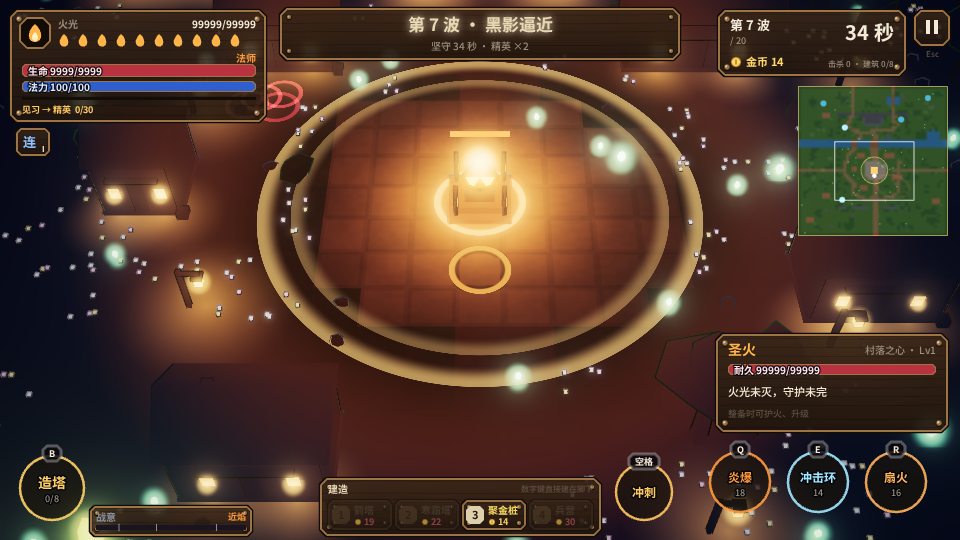
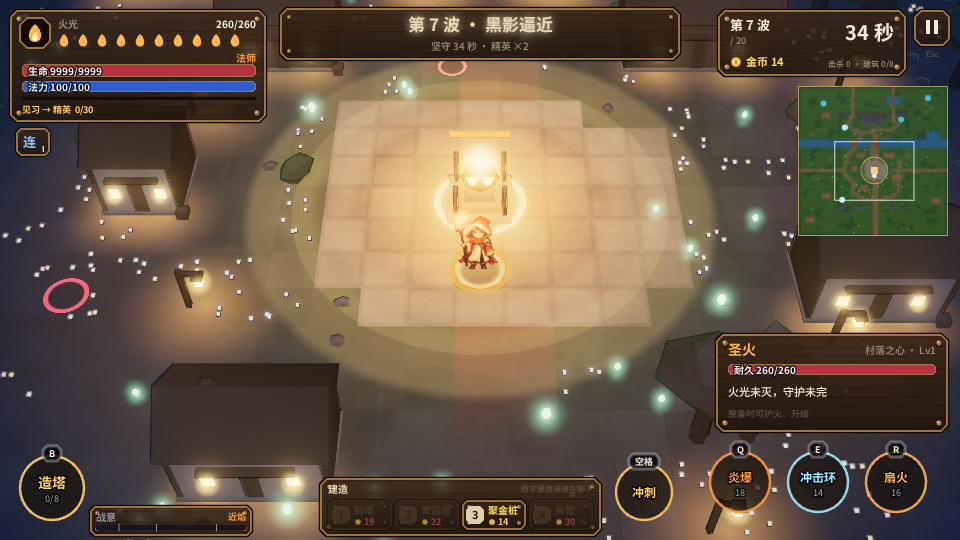
scene: lift the outside to a readable blue-grey and brighten the flame
The cool wash was too dark and magenta, so the village dropped out. Raise
outside gain and ambient, shift the cool tint from purple toward blue, and
stop the grade pass from forcing shadow green under red. The flame is a
brighter gold (about 1.3x gain, less red). The sanctuary ring is a faint
soft band, and green-dominant particles are damped below the bloom threshold.

diff --git a/js/world3d.js b/js/world3d.js
@@ -526,15 +526,15 @@
     // rim = 冷色边缘光 [r, g, b, 强度]；fogLow = 光圈外低矮冷雾 [浓度, 高度, 从光圈边缘到最浓的距离]；vig = 暗角；
     // amb = 环境与主光亮度倍率；chill = C1 冷暖混合（0 白天端，1 夜晚端，见 RW.C1_LIGHT）；a35 = 夜晚提亮到白天 35% 的备选颜色
     var P = {
-      day: { light: [-0.45, 0.82, 0.36], sun: shade(hex('#a8c0e8'), 0.38), sky: shade(hex('#9ec0ff'), 0.4), ground: shade(hex('#161432'), 0.6), fog: hex('#3a4e84'), clear: hex('#4a6298'), fogNear: 1700, fogFar: 2700, em: 1.0, lamp: 0.15,
-        grade: [1.02, 1.04, 0.06, 0.0], shadowDark: 0.28, line: hex('#1a1830'), bloom: 0.35, thr: 0.9,
-        rim: [0.37, 0.66, 0.78, 0.12], fogLow: [0, 40, 360], vig: 0.18, amb: 0.46, chill: 0 },
-      dusk: { light: [-0.7, 0.55, 0.3], sun: shade(hex('#8aa0d0'), 0.32), sky: shade(hex('#6070b0'), 0.38), ground: shade(hex('#141228'), 0.55), fog: hex('#2a3868'), clear: hex('#323e6c'), fogNear: 1500, fogFar: 2400, em: 1.2, lamp: 0.6,
-        grade: [0.98, 1.05, 0.1, -0.01], shadowDark: 0.26, line: hex('#161428'), bloom: 0.6, thr: 0.78,
-        rim: [0.45, 0.6, 0.85, 0.2], fogLow: [0.25, 36, 420], vig: 0.22, amb: 0.34, chill: 0.45 },
-      night: { light: [-0.35, 0.8, 0.45], sun: shade(hex('#6880c0'), 0.26), sky: shade(hex('#3a58a0'), 0.32), ground: shade(hex('#100e22'), 0.5), fog: hex('#1c2a56'), clear: hex('#10162c'), fogNear: 1300, fogFar: 2100, em: 1.5, lamp: 1.0,
-        grade: [0.92, 1.06, 0.12, -0.01], shadowDark: 0.22, line: hex('#0c0e18'), bloom: 0.95, thr: 0.62,
-        rim: [0.37, 0.66, 0.78, 0.32], fogLow: [0.55, 34, 380], vig: 0.28, amb: 0.24, chill: 1,
+      day: { light: [-0.45, 0.82, 0.36], sun: shade(hex('#b7ccec'), 0.50), sky: shade(hex('#a8c4ee'), 0.58), ground: shade(hex('#2c3c5c'), 0.85), fog: hex('#4e709e'), clear: hex('#5e82b0'), fogNear: 1900, fogFar: 3200, em: 1.0, lamp: 0.5,
+        grade: [1.04, 1.02, 0.04, 0.02], shadowDark: 0.52, line: hex('#1a1830'), bloom: 0.35, thr: 0.9,
+        rim: [0.37, 0.66, 0.78, 0.12], fogLow: [0, 40, 360], vig: 0.12, amb: 0.62, chill: 0 },
+      dusk: { light: [-0.7, 0.55, 0.3], sun: shade(hex('#9eb6dc'), 0.48), sky: shade(hex('#7c9cc8'), 0.55), ground: shade(hex('#28344c'), 0.82), fog: hex('#3e5a86'), clear: hex('#3e5c88'), fogNear: 1750, fogFar: 2900, em: 1.2, lamp: 0.75,
+        grade: [1.0, 1.02, 0.05, 0.01], shadowDark: 0.5, line: hex('#161428'), bloom: 0.45, thr: 0.85,
+        rim: [0.45, 0.6, 0.85, 0.2], fogLow: [0.25, 36, 420], vig: 0.14, amb: 0.58, chill: 0.45 },
+      night: { light: [-0.35, 0.8, 0.45], sun: shade(hex('#8aa4d0'), 0.50), sky: shade(hex('#7090c4'), 0.62), ground: shade(hex('#24344e'), 0.90), fog: hex('#3a5680'), clear: hex('#243656'), fogNear: 1700, fogFar: 2800, em: 1.5, lamp: 1.0,
+        grade: [0.98, 1.02, 0.06, 0.01], shadowDark: 0.48, line: hex('#0c0e18'), bloom: 0.55, thr: 0.85,
+        rim: [0.37, 0.66, 0.78, 0.32], fogLow: [0.55, 34, 380], vig: 0.16, amb: 0.62, chill: 1,
         // 备选（GL.ART.night35）：夜晚光圈外亮度约为白天 35% 的提亮版
         a35: { sun: shade(hex('#8aa4ff'), 0.72), sky: shade(hex('#5a74b8'), 0.8), ground: shade(hex('#2a2c48'), 0.6), fog: hex('#34497a'), clear: hex('#141e36') } },
       boss: { light: [-0.5, 0.7, 0.4], sun: shade(hex('#8090c8'), 0.3), sky: shade(hex('#503868'), 0.4), ground: shade(hex('#1a1020'), 0.5), fog: hex('#2a2048'), clear: hex('#1a1430'), fogNear: 1400, fogFar: 2200, em: 1.4, lamp: 0.9,
@@ -1067,9 +1067,9 @@
     if (au > 0 && !sky) {
       var R0 = 2600;
       GL.ground(false, co.x, 0.6, co.y, R0, 1, 1 - au / R0, BLACK, SA.dim);
-      GL.ground(true, co.x, 1.3, co.y, au, 1, 0.012, F ? C(F.color) : hex('#ffd27a'), 0.28 + 0.06 * Math.sin(t * 2));
+      GL.ground(true, co.x, 1.3, co.y, au * 1.08, 1, 0.42, hex('#ffd27a'), (RW.C1_LIGHT && RW.C1_LIGHT.ring != null) ? RW.C1_LIGHT.ring : 0.06);
     }
-    if (!sky && co.gunRange < 3000) GL.ground(true, co.x, 1.3, co.y, co.gunRange || T.core.gunRange, 1, 0.01, hex('#ffd27a'), 0.12);
+    if (!sky && co.gunRange < 3000) GL.ground(true, co.x, 1.3, co.y, co.gunRange || T.core.gunRange, 1, 0.08, hex('#ffd27a'), 0.035);
     // 圣域收成：被照亮的房屋上方飘起金色的光点（安详生产）
     if (lv >= 2 && W3.houses) {
       for (var hi = 0; hi < W3.houses.length; hi++) {

diff --git a/js/gl3d.js b/js/gl3d.js
@@ -184,7 +184,7 @@
     uRim: { value: null }, uNoise: { value: 0.12 }, uCore: { value: null }, uCoreCol: { value: null },
     uFogLow: { value: null }, uEmHDR: { value: 2.2 }, uGradK: { value: 0 }, uFogPierce: { value: 0 },
     // C1（参数在 RW.C1_LIGHT）。uBand=(inner, outer, 圈内饱和, 圈外饱和)，uGain=(圈内明度, 圈外明度)
-    // uGreen=(圈内去柠绿, 圈外去柠绿)，uCool=圈外冷蓝（g 不高于 r），uWarmAdd=圣火强度，uFall=指数陡度
+    // uGreen=(圈内去柠绿, 圈外去柠绿)，uCool=圈外蓝灰（红低于绿，蓝最高），uWarmAdd=圣火强度，uFall=指数陡度
     uBand: { value: new THREE.Vector4(0.2, 1.7, 1.12, 0.06) }, uGain: { value: new THREE.Vector2(0.74, 0.62) },
     uCool: { value: new THREE.Vector3(0.46, 0.40, 1.06) }, uGreen: { value: new THREE.Vector2(0.78, 0.25) },
     uWarmAdd: { value: 1.25 }, uFall: { value: 1.4 }, uChill: { value: 0 },
@@ -274,7 +274,7 @@
       // 斑驳：两层世界坐标噪声，石头、木头、茅草、草地都带一点笔触感。C1 色温接在斑驳之后。
       .replace('#include <color_fragment>', '#include <color_fragment>\nfloat fgN = fgNoise(vWp.xz * 0.045 + vWp.y * 0.03) * 0.65 + fgNoise(vWp.xz * 0.19 - vWp.y * 0.11) * 0.35;\ndiffuseColor.rgb *= vGrad * (1.0 - uNoise + 2.0 * uNoise * fgN);\n' + C1_ALBEDO)
       // 自发光进 HDR（乘 uEmHDR），只有它和法术光效能过泛光阈值
-      .replace('#include <emissivemap_fragment>', '#include <emissivemap_fragment>\ntotalEmissiveRadiance += vColor.rgb * vEm * uEmBoost * uEmHDR;' +
+      .replace('#include <emissivemap_fragment>', '#include <emissivemap_fragment>\ntotalEmissiveRadiance += vColor.rgb * vEm * uEmBoost * uEmHDR * mix(1.0, 0.4, smoothstep(0.02, 0.18, vColor.g - max(vColor.r, vColor.b)));' +
         (water ? '\nfloat s1 = sin(vWp.x*0.09 + uTime*1.7) * cos(vWp.z*0.07 - uTime*1.3);\ndiffuseColor.rgb *= 0.85 + 0.25*s1;\ntotalEmissiveRadiance += vec3(0.35,0.6,0.9) * smoothstep(0.82, 0.98, s1) * 0.8;' : ''));
   }
   // toon = true 用三段色阶，false 用原版的 MeshStandardMaterial（平直着色、粗糙 0.92）
@@ -346,7 +346,8 @@
     '  else if (vKind < 2.5) { a = smoothstep(1.0, 0.9 - vParam*0.5, r); }',
     '  else { float y = abs(vUv.y); float x = abs(vUv.x); a = pow(max(0.0, 1.0 - y), 1.5) * smoothstep(1.0, 0.7, x); }',
     '  if (a < 0.004) discard;',
-    '  gl_FragColor = vec4(vCol.rgb * uGain, vCol.a * a);',
+    '  float gDom = smoothstep(0.02, 0.18, vCol.g - max(vCol.r, vCol.b));',
+    '  gl_FragColor = vec4(vCol.rgb * uGain * mix(1.0, 0.36, gDom), vCol.a * a);',
     '}'
   ].join('\n');
   function fxMesh(B, additive) {
@@ -485,7 +486,7 @@
         '  float sh = 1.0 - smoothstep(0.03, 0.46, l);',
         '  float hi = smoothstep(0.4, 0.9, l);',
         '  vec3 shCol = mix(c.rgb, uShad * max(l, 0.015), 0.9);',
-        '  shCol.g = min(shCol.g, shCol.r * 0.9);',
+        '  shCol.g = min(shCol.g, mix(shCol.r, shCol.b, 0.55));',
         '  c.rgb = mix(c.rgb, shCol, sh * uSplit.x);',
         '  c.rgb = mix(c.rgb, c.rgb * uHigh, hi * uSplit.y);',
         '  vec2 vd = (vUv - 0.5) * vec2(1.0, 0.78);',

diff --git a/js/data.js b/js/data.js
@@ -373,23 +373,26 @@
     dim: 0.32
   };
   // C1「光即是色」。冷暖只调这一处，着色器在 js/gl3d.js。不改玩法、镜头、视野。
-  // 圣火是唯一主光：约 2300K 琥珀（sRGB），按距离做指数衰减，没有光锥硬边。
-  // 环境光压得很低，只留阴影层次，颜色是约 10000K 的靛蓝（绿通道不高于红）。
-  // band：固有色从「圈内更深的绿褐、饱和」收到「圈外近乎单色的冷蓝」。inner/outer 是圣域半径的倍数，smoothstep，很宽。
-  // greenKill：圈内把过亮的绿草收到褐绿。fog 在圈边才开始变浓，近火是暖雾，远处是深靛蓝。
-  // enemy：圈外的敌人立牌再压暗、去饱和。bloom 用已经在跑的泛光通道，阈值放低、强度很小，只晕开火。
-  // veil：旧的圣域黑盘，关掉，避免再切出一圈硬边。
+  // 圣火是主光：金橙（少红、多黄），按距离做指数衰减，没有光锥硬边。
+  // 圈外是能看清村屋剪影的蓝灰，不是发闷的品红。cool 的红低于绿、蓝最高。
+  // band：固有色从「圈内更深的绿褐、饱和」收到「圈外低饱和冷蓝」。inner/outer 是圣域半径的倍数，smoothstep，很宽。
+  // greenKill：圈内把过亮的绿草收到褐绿。fog 在圈外才加浓，近火是暖雾，远处是淡蓝灰。
+  // enemy：圈外的敌人立牌再压暗、去饱和。bloom 阈值抬高，绿萤火不过阈值。
+  // veil：旧的圣域黑盘，关掉。ring：圣域金圈的透明度，只留一条很淡的软边。
   RW.C1_LIGHT = {
-    flame: { color: [1.0, 0.545, 0.165], fall: 1.4, gain: [1.25, 1.85] },
+    // gain 约是上一档 [1.25, 1.85] 的 1.3 倍。fall 仍是软指数。
+    flame: { color: [1.0, 0.74, 0.32], fall: 1.35, gain: [1.63, 2.4] },
     band: { inner: 0.2, outer: 1.7 },
-    albedo: { inSat: 1.12, outSat: 0.06, inGain: 0.74, outGain: [0.62, 0.46], greenKill: [0.78, 0.25] },
-    cool: [0.46, 0.40, 1.06],
-    fog: { warm: [1.0, 0.50, 0.16], start: 0.78, thick: 1.05, amount: [0.42, 0.58] },
-    grade: { shadow: 0.62, high: 0.4, shad: [0.10, 0.08, 0.26], highCol: [1.12, 0.58, 0.16] },
-    enemy: { gain: 0.42 },
-    bloom: { thr: 0.64, radius: 0.62, add: 0.1 },
-    exposure: 1.06,
-    veil: 0
+    // 圈外目标大约：白天远处地面 (45,60,95)，夜晚 (28,38,70)。
+    albedo: { inSat: 1.08, outSat: 0.16, inGain: 0.96, outGain: [0.92, 1.05], greenKill: [0.7, 0.18] },
+    cool: [0.42, 0.56, 0.88],
+    fog: { warm: [1.0, 0.74, 0.34], start: 0.95, thick: 1.5, amount: [0.22, 0.20] },
+    grade: { shadow: 0.30, high: 0.42, shad: [0.20, 0.28, 0.48], highCol: [1.04, 0.84, 0.4] },
+    enemy: { gain: 0.66 },
+    bloom: { thr: 0.92, radius: 0.5, add: 0.06 },
+    exposure: 1.08,
+    veil: 0,
+    ring: 0.06
   };
   RW.SANCTUARY.dim = RW.C1_LIGHT.veil;
   // 圣火每升一级，王旗自动往外插一站（各地图的王旗位置写在 js/map.js 的 fronts 里，切图时换成当前图的）。
